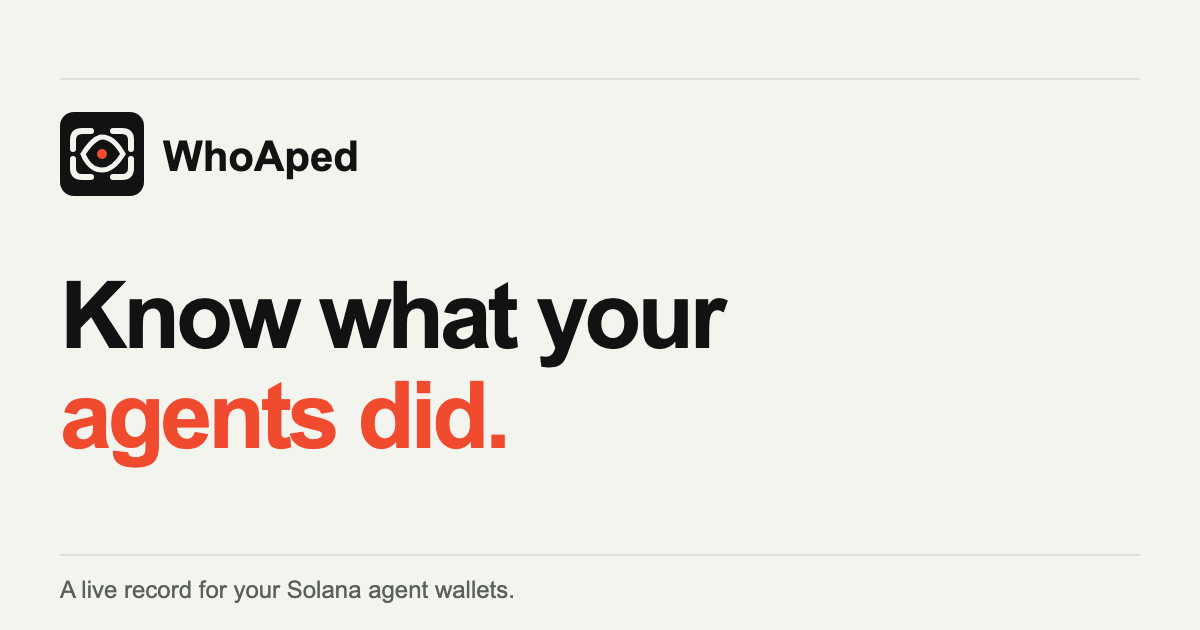
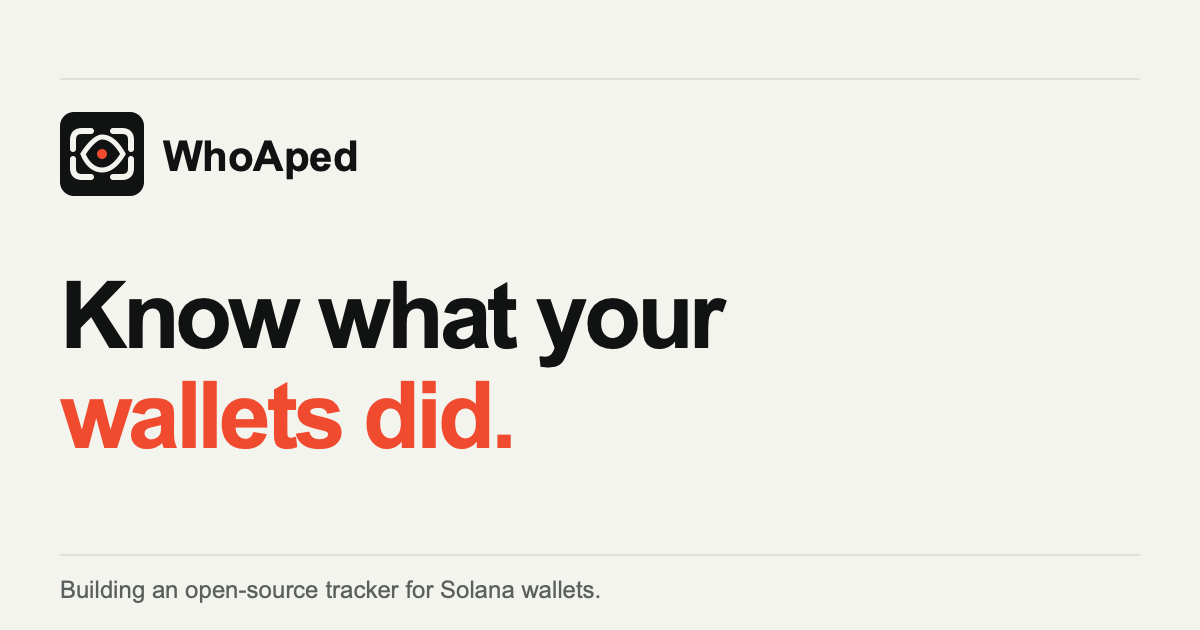
Position landing page as open-source wallet tracker

diff --git a/apps/web/index.html b/apps/web/index.html
@@ -4,29 +4,29 @@
     <meta charset="utf-8" />
     <meta name="viewport" content="width=device-width, initial-scale=1" />
     <meta name="theme-color" content="#F4F4EF" />
-    <title>WhoAped — Know what your agents did</title>
-    <meta name="description" content="Know what your AI agents did on Solana. Follow their public wallets in one clear activity feed, with timely alerts for meaningful moves." />
+    <title>WhoAped — Know what your wallets did</title>
+    <meta name="description" content="We're building an open-source Solana wallet tracker. Follow public wallets in one clear activity feed and get timely alerts for meaningful moves." />
     <meta name="robots" content="index, follow, max-image-preview:large" />
     <link rel="canonical" href="https://whoaped.com/" />
     <meta property="og:type" content="website" />
     <meta property="og:site_name" content="WhoAped" />
     <meta property="og:locale" content="en_US" />
     <meta property="og:url" content="https://whoaped.com/" />
-    <meta property="og:title" content="WhoAped — Know what your agents did" />
-    <meta property="og:description" content="Know what your AI agents did on Solana. Follow their public wallets in one clear activity feed, with timely alerts for meaningful moves." />
+    <meta property="og:title" content="WhoAped — Know what your wallets did" />
+    <meta property="og:description" content="We're building an open-source Solana wallet tracker. Follow public wallets in one clear activity feed and get timely alerts for meaningful moves." />
     <meta property="og:image" content="https://whoaped.com/assets/og-card.png" />
     <meta property="og:image:secure_url" content="https://whoaped.com/assets/og-card.png" />
     <meta property="og:image:type" content="image/png" />
     <meta property="og:image:width" content="1200" />
     <meta property="og:image:height" content="630" />
-    <meta property="og:image:alt" content="WhoAped logo and the headline Know what your agents did on a paper-colored background, with agents did highlighted in orange." />
+    <meta property="og:image:alt" content="WhoAped logo and the headline Know what your wallets did on a paper-colored background, with wallets did highlighted in orange." />
     <meta name="twitter:card" content="summary_large_image" />
     <meta name="twitter:site" content="@whoaped" />
     <meta name="twitter:creator" content="@whoaped" />
-    <meta name="twitter:title" content="WhoAped — Know what your agents did" />
-    <meta name="twitter:description" content="Know what your AI agents did on Solana. Follow their public wallets in one clear activity feed, with timely alerts for meaningful moves." />
+    <meta name="twitter:title" content="WhoAped — Know what your wallets did" />
+    <meta name="twitter:description" content="We're building an open-source Solana wallet tracker. Follow public wallets in one clear activity feed and get timely alerts for meaningful moves." />
     <meta name="twitter:image" content="https://whoaped.com/assets/og-card.png" />
-    <meta name="twitter:image:alt" content="WhoAped logo and the headline Know what your agents did on a paper-colored background, with agents did highlighted in orange." />
+    <meta name="twitter:image:alt" content="WhoAped logo and the headline Know what your wallets did on a paper-colored background, with wallets did highlighted in orange." />
     <link rel="icon" type="image/svg+xml" href="/assets/mark.svg" />
     <script>try{const saved=localStorage.getItem('whoaped.theme');document.documentElement.dataset.theme=saved|| (matchMedia('(prefers-color-scheme: dark)').matches?'dark':'light')}catch{}</script>
     <link rel="stylesheet" href="/styles.css" />
@@ -43,21 +43,22 @@
     <main id="main">
       <section class="hero shell" aria-labelledby="hero-title">
         <div class="hero-copy">
-          <div class="live-label"><span class="live-dot" aria-hidden="true"></span> A live record for your Solana agents</div>
-          <h1 id="hero-title">Know what your<br /><em>agents did.</em></h1>
-          <p class="hero-intro">Your AI agents have wallets. WhoAped watches their public Solana addresses and turns every meaningful onchain move into a clear feed and timely alert.</p>
+          <div class="live-label"><span class="live-dot" aria-hidden="true"></span> Building an open-source Solana wallet tracker</div>
+          <h1 id="hero-title">Know what your<br /><em>wallets did.</em></h1>
+          <p class="hero-intro">Track the public Solana wallets that matter to you. WhoAped turns meaningful onchain activity into a clear feed and timely alerts.</p>
           <div class="hero-actions"><a class="button button-primary" href="#how-it-works">See how it works <span aria-hidden="true">↓</span></a></div>
-          <p class="hero-note">Watch-only. Add an agent’s public address. No wallet connection required.</p>
+          <p class="hero-note">Watch-only. Add a public address. No wallet connection required.</p>
+          <p class="hero-platforms">We’re building mobile apps for iOS, Android, and Solana Mobile, plus a Telegram bot.</p>
         </div>
         <div class="hero-scene" aria-label="Illustration of the WhoAped activity feed">
           <div class="scene-rail"><span>01 / ACTIVITY</span><span>LISTENING <i aria-hidden="true"></i></span></div>
           <div class="phone">
             <div class="phone-top"><span>9:41</span><span aria-hidden="true">●●●  ▰</span></div>
-            <div class="phone-title"><span>Latest</span><span>3 agent wallets on watch</span></div>
+            <div class="phone-title"><span>Latest</span><span>3 wallets on watch</span></div>
             <div class="phone-list">
-              <div class="phone-row"><span class="event-dot event-blue"></span><div><span class="phone-meta">Trading agent · now</span><strong>Swapped SOL for USDC</strong><small>Jupiter</small></div><span class="row-arrow" aria-hidden="true">↗</span></div>
-              <div class="phone-row"><span class="event-dot event-green"></span><div><span class="phone-meta">Treasury agent · 4m</span><strong>Deposited into a vault</strong><small>Kamino</small></div><span class="row-arrow" aria-hidden="true">↗</span></div>
-              <div class="phone-row"><span class="event-dot event-orange"></span><div><span class="phone-meta">Launch agent · 12m</span><strong>Launched a new token</strong><small>Token launch</small></div><span class="row-arrow" aria-hidden="true">↗</span></div>
+              <div class="phone-row"><span class="event-dot event-blue"></span><div><span class="phone-meta">Trading wallet · now</span><strong>Swapped SOL for USDC</strong><small>Jupiter</small></div><span class="row-arrow" aria-hidden="true">↗</span></div>
+              <div class="phone-row"><span class="event-dot event-green"></span><div><span class="phone-meta">Treasury wallet · 4m</span><strong>Deposited into a vault</strong><small>Kamino</small></div><span class="row-arrow" aria-hidden="true">↗</span></div>
+              <div class="phone-row"><span class="event-dot event-orange"></span><div><span class="phone-meta">Launch wallet · 12m</span><strong>Launched a new token</strong><small>Token launch</small></div><span class="row-arrow" aria-hidden="true">↗</span></div>
             </div>
             <div class="phone-tabs"><span class="selected">Activity</span><span>Wallets</span><span>Settings</span></div>
           </div>
@@ -65,14 +66,14 @@
         </div>
       </section>
 
-      <section class="statement" aria-labelledby="statement-title"><div class="shell statement-inner"><p class="eyebrow">THE SIGNAL</p><h2 id="statement-title">Agents move onchain.<br /><span>You stay in the loop.</span></h2><p>A transaction hash is not a useful update. WhoAped shows what changed in the wallets your agents use—without guessing why they acted.</p></div></section>
+      <section class="statement" aria-labelledby="statement-title"><div class="shell statement-inner"><p class="eyebrow">THE SIGNAL</p><h2 id="statement-title">Wallets move onchain.<br /><span>You stay in the loop.</span></h2><p>A transaction hash is not a useful update. WhoAped shows what changed in the wallets you follow, without the noise of raw instructions.</p></div></section>
 
-      <section class="how shell" id="how-it-works" aria-labelledby="how-title"><div class="section-heading"><p class="eyebrow">HOW IT WORKS</p><h2 id="how-title">Three steps. No noise.</h2></div><div class="steps"><article class="step"><span class="step-index">01</span><h3>Add an agent wallet</h3><p>Save the public Solana address an agent uses. Name it so you know who is who.</p></article><article class="step"><span class="step-index">02</span><h3>We watch the chain</h3><p>WhoAped tracks new activity and filters out tiny, unsolicited dust transfers.</p></article><article class="step"><span class="step-index">03</span><h3>See what changed</h3><p>Get a readable activity record and a push alert for meaningful wallet moves.</p></article></div></section>
+      <section class="how shell" id="how-it-works" aria-labelledby="how-title"><div class="section-heading"><p class="eyebrow">HOW IT WORKS</p><h2 id="how-title">Three steps. No noise.</h2></div><div class="steps"><article class="step"><span class="step-index">01</span><h3>Add a wallet</h3><p>Save any public Solana address and give it a name you will recognize.</p></article><article class="step"><span class="step-index">02</span><h3>We watch the chain</h3><p>WhoAped tracks new activity and filters out tiny, unsolicited dust transfers.</p></article><article class="step"><span class="step-index">03</span><h3>See what changed</h3><p>Get a readable activity record and a push alert for meaningful wallet moves.</p></article></div></section>
 
-      <section class="detail shell" aria-labelledby="detail-title"><div class="detail-copy"><p class="eyebrow">BUILT FOR THE DETAILS</p><h2 id="detail-title">More than a transaction hash.</h2><p>See what an agent wallet actually did: both sides of a swap, the asset and protocol behind a deposit, or the details of a token launch. A readable record, not a wall of instructions.</p></div><div class="ledger" aria-label="Illustrative example of a decoded swap"><div class="ledger-top"><span><i class="event-dot event-blue" aria-hidden="true"></i> AGENT WALLET</span><span>SWAP</span></div><div class="ledger-action"><span>Sent</span><strong>1 SOL</strong><span class="ledger-rule" aria-hidden="true"></span><span>Received</span><strong>USDC</strong></div><div class="ledger-bottom"><span>DEX <b>Jupiter</b></span><span>VIEW ON SOLSCAN ↗</span></div><p class="ledger-note">Illustrative transaction layout</p></div></section>
+      <section class="detail shell" aria-labelledby="detail-title"><div class="detail-copy"><p class="eyebrow">BUILT FOR THE DETAILS</p><h2 id="detail-title">More than a transaction hash.</h2><p>See what a wallet actually did: both sides of a swap, the asset and protocol behind a deposit, or the details of a token launch. A readable record, not a wall of instructions.</p></div><div class="ledger" aria-label="Illustrative example of a decoded swap"><div class="ledger-top"><span><i class="event-dot event-blue" aria-hidden="true"></i> TRACKED WALLET</span><span>SWAP</span></div><div class="ledger-action"><span>Sent</span><strong>1 SOL</strong><span class="ledger-rule" aria-hidden="true"></span><span>Received</span><strong>USDC</strong></div><div class="ledger-bottom"><span>DEX <b>Jupiter</b></span><span>VIEW ON SOLSCAN ↗</span></div><p class="ledger-note">Illustrative transaction layout</p></div></section>
 
-      <section class="final-cta"><div class="shell final-inner"><div><p class="eyebrow">THE TAKEAWAY</p><h2>Give every agent wallet<br />a readable history.</h2></div></div></section>
+      <section class="final-cta"><div class="shell final-inner"><div><p class="eyebrow">OPEN SOURCE IN THE MAKING</p><h2>Every wallet deserves<br />a readable history.</h2></div></div></section>
     </main>
-    <footer class="site-footer shell"><a class="brand" href="/"><img src="/assets/mark.svg" alt="" width="30" height="30" /><span>WhoAped</span></a><p>Know what your agents did.</p><nav class="footer-links" aria-label="Legal"><a href="/privacy/">Privacy</a><a href="/terms/">Terms</a></nav></footer>
+    <footer class="site-footer shell"><a class="brand" href="/"><img src="/assets/mark.svg" alt="" width="30" height="30" /><span>WhoAped</span></a><p>Know what your wallets did.</p><nav class="footer-links" aria-label="Legal"><a href="/privacy/">Privacy</a><a href="/terms/">Terms</a></nav></footer>
   </body>
 </html>

diff --git a/apps/web/styles.css b/apps/web/styles.css
@@ -44,6 +44,7 @@ img{display:block;max-width:100%}
 .text-link{display:inline-flex;align-items:center;gap:12px;min-height:44px;font-size:15px;font-weight:700;text-decoration:none;border-bottom:1px solid var(--ink)}
 .text-link:hover{color:var(--orange);border-color:var(--orange)}
 .hero-note{margin:22px 0 0;color:var(--quiet);font-size:13px}
+.hero-platforms{margin:9px 0 0;color:var(--quiet);font-size:13px;font-weight:600}
 .hero-scene{position:relative;display:flex;flex-direction:column;align-items:center;justify-content:center;min-height:560px;background:var(--surface);border:1px solid var(--line);border-radius:4px;overflow:hidden}
 .hero-scene:before,.hero-scene:after{content:"";position:absolute;width:190px;height:190px;border:1px solid var(--ornament);border-radius:50%;pointer-events:none}
 .hero-scene:before{left:-95px;top:36px}.hero-scene:after{right:-105px;bottom:42px;width:270px;height:270px}
